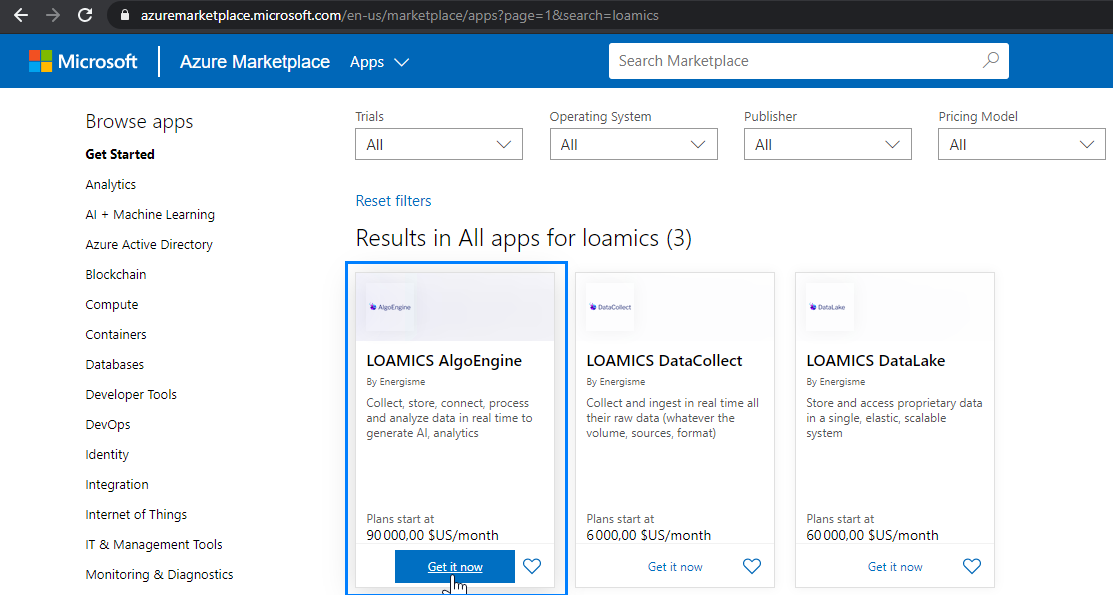
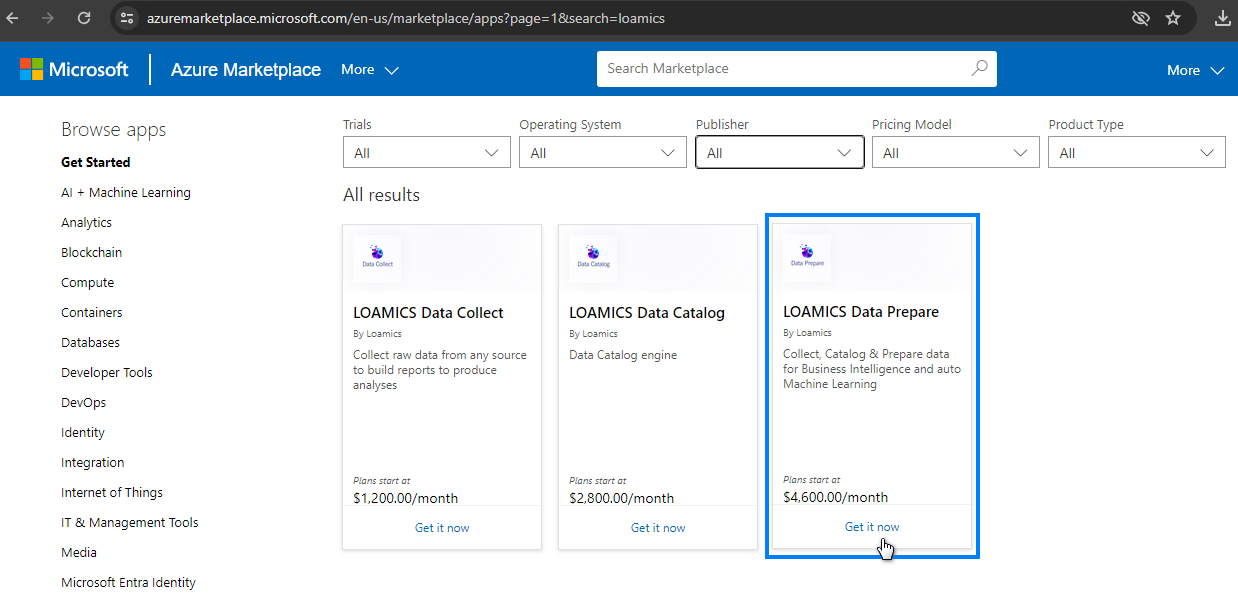
Update technical docs

diff --git a/gitbook/user_manual/ii_pages.md b/gitbook/user_manual/ii_pages.md
@@ -1,94 +1,63 @@
 ## II. Steps
 
-### 1. One SSH Public key
+###### Version 2.4.0
 
-This step creates a new SSH key pair.
+### 1. Basics
 
-Purpose: After deployment successfully finished, you can use this private key to SSH into VMs.
+Region `West Europe or France Central` are recommended:  
+![basics](imgs/basics_tab.png "")  
 
-Note: If you want to use an already exist key pair, you can skip this step. 
+### 2. Loamics Settings
 
-Open CMD on windows (Window button + R → “cmd”):
+![params](imgs/main_screen.png "") 
 
-This document using OpenSSH to generate key pairs (you can use any tool as you like)
+**General**:
 
-①. Run command: ssh-keygen
+- `Client name`: This is your company/organization in short. The value must be a string of 04-10 lower-case alphanumeric characters. It should not include some worlds that reserved by Microsoft (https://docs.microsoft.com/en-us/azure/azure-resource-manager/templates/error-reserved-resource-name)
 
-②. Enter file name
+- `White IP addresses`: The list of 1~15 IP addresses allowed to access the product. They must be separated by commas. You can see what is your Ip by browsing this site: https://www.myip.com/
 
-③. Enter your passphrase or skip it by Enter
+- `Activation key`: The product activation key. It is a string of maximum 40 alphanumeric characters. If you have no activation key, please leave this field blank.
 
-![ssh_1](imgs/ssh_1.png "")
+**Administrator's Contact**:
 
-Key pair will be created in your folder
+- `Contact name`: The administrator name. Please input your name who is getting this product.
 
-![ssh_2](imgs/ssh_2.png "")
+- `Email`: The administrator's email address. This email address to receive password of DataCollect and system notifications in the future.
 
-Open ssh-key.pub file
+**Loamics Components**: 
 
-![ssh_3](imgs/ssh_3.png "")
+- This section is mandatory. No need to unselect them.
 
-### 2. SFTP public key
+**Add-Ons**:
 
-This step creates a new SSH key pair.
+- You can select to install optional add-ons if you want.
 
-Purpose: After deployment successfully finished, you can use the private key to access into SFTP module.
+  Currently, Loamics (version 2.4.0) is providing these addons:  
+  ![params](imgs/loamics_addons_screen.png "") 
 
-Note: If you want to use an already exist key pair, you can skip this step.
+  + [IoT Hub - Connect, monitor, and manage billions of IoT assets](https://azure.microsoft.com/en-us/products/iot-hub/).  
+  + [Warp 10 - The Most Advanced Time Series Platform](https://www.warp10.io/).  
+  + [Azure Digital Twins - Use IoT spatial intelligence to create models of physical environments](https://azure.microsoft.com/en-us/products/digital-twins/).  
+  + [Elasticsearch - The distributed, RESTful search and analytics engine](https://www.elastic.co/elasticsearch/).  
 
-Open CMD on windows:
+### 4. Options
 
-①. Run command: ssh-keygen
+![options](imgs/options_tab.png "")  
 
-②. Enter file name
+- `Do you have an e-mail server?`: The Loamics Data Platform will use its e-mail system to send you notifications. Please select this option if you want to use your own e-mail system instead.
 
-③. Enter your passphrase or skip it by Enter
+- `Alert Email`: The custom email will receive alerts/notifications. By default, the alerts/notifications will be sent to the administrator's email.
 
-![ssh_4](imgs/ssh_4.png "")
+- `Alert Teams Webhook`: The Incoming Webhook URL of MS Teams Channel that will receive alerts/notifications.
 
-Key pair will be created in your folder
+- `Logs Retention Days`: How many days the service logs should be retained? Default: 5. 
 
-![ssh_5](imgs/ssh_5.png "")
+- `Do you have a Service Principal in your Azure AD that is reserved to be used in the Loamics Data Platform?`: To use some features such as Cloudera Hue's ADLS Gen2 connector, please create a new app registration, then input its Client ID and Client Secret here.
 
-Open sftp-key.pub file
+### 5. Review and create
 
-![ssh_6](imgs/ssh_6.png "")
-
-### 3. List your Whitelist IP addresses
-
-Only IPs from this Whitelist can access to your resources.
-
-You can check from [www.whatismyip.com](https://www.whatismyip.com/).
-
-If you want to input more than one IP, separated them by comma - not include space, Ex: 11.11.11.11,22.22.22.22,33.33.33.33
-
-![ip_1](imgs/ip_1.png "")
-
-### 4. Environment
-
-This is environment name in short for all resources, something like “prod” (for production) or “test” (for testing) or “dev” (for develop), etc...
-
-**Constraints**: Lowercase letters and numbers only, length in range [3-7] letters.
-
-### 5. Client name
-
-This is your company/organization in short.
-
-The client name combines with environment make your resources unique among subscriptions. This field should not include some word that reserved by Microsoft (refer document link: https://docs.microsoft.com/en-us/azure/azure-resource-manager/templates/error-reserved-resource-name) (ex: ~~login|microsoft|windows|xbox~~,..etc)
-
-**Constraints**: Lowercase letters and numbers only, length in range [3-10] letters.
-
-### 6. Optional Connectors
-
-You can decide to deploy Warp 10 or not.  
-In case you decide to include Warp 10: Select Warp 10 in the check box.   
-In case you decide to exclude Warp 10: Unselect Warp 10 in the check box.   
-![warp10_param](imgs/warp10_param.png "")
-
-### 7. Activation Key
-
-In case you don’t have it before, please leave it blank.  
-
-**Constraints**: Letters and numbers only, length [19] letters.  
+Check to agree terms and conditions -> `Create`:  
+![review](imgs/review_create_screen.png "")  
 
 ---

diff --git a/gitbook/SUMMARY.md b/gitbook/SUMMARY.md
@@ -1,7 +1,7 @@
 # Summary
 
 * [User Manual](README.md)
-	* [I. About this document](user_manual/i_pages.md)
+	* [I. Prerequisites](user_manual/i_pages.md)
 	* [II. Steps](user_manual/ii_pages.md)
 	* [III. Verify](user_manual/iii_pages.md)
 
@@ -56,6 +56,10 @@
 		* [DataCollect](deployment/ii_s1_pages.md)
 		* [DataLake](deployment/ii_s2_pages.md)
 		* [DataConnect](deployment/ii_s3_pages.md)
+	* [III. New Infrastructure Deployment](deployment/iii_pages.md)
+		* [DataCollect](deployment/iii_s1_pages.md)
+		* [DataCatalog](deployment/iii_s2_pages.md)
+		* [DataPrepare](deployment/iii_s3_pages.md)
 
 ---
 

diff --git a/gitbook/user_manual/i_pages.md b/gitbook/user_manual/i_pages.md
@@ -1,12 +1,10 @@
 # User Manual for Data Platform
 
-###### Version 1.1.3.0
+###### Version 2.4.0
 
-## I. About this document
+## I. Prerequisites
 
-This document explains about below parameters screen when deploying:  
-![basics](imgs/basics_tab.png "")  
+Subscription Quotas should be enough, number of vCPU from 20 to 50 (at least) are recommended:  
 ![subscription_quotas](imgs/subscription_quotas.png "")  
-![main_screen](imgs/main_screen.png "")
 
 ---

diff --git a/gitbook/README.md b/gitbook/README.md
@@ -1,10 +1,10 @@
 # User Manual for Data Platform
 
-###### Version 2.0
+###### Version 2.4.0
 
 ![main_screen](user_manual/imgs/offers_logo.png "")
 
-![pda_offer_logo](user_manual/imgs/loamics_logo_apps.png "")
+![pda_offer_logo](user_manual/imgs/collect-catalog-prepare-v2.png "")
 
 ## I. About this document
 This document has the aim of explaining how users can deploy and integrate the Loamics offer from the Azure Market Place onto their tenant. 

diff --git a/gitbook/deployment/iii_pages.md b/gitbook/deployment/iii_pages.md
@@ -4,8 +4,4 @@
 
 ![loamics_logo](imgs/collect-catalog-prepare-v2.png "")
 
-## I. About this document
-
-This page explains what component included in Loamics products.
-
 ---

diff --git a/gitbook/deployment/iii_s1_pages.md b/gitbook/deployment/iii_s1_pages.md
@@ -1,0 +1,9 @@
+# Deployment Models
+
+###### Version 2.4.0
+
+### DataCollect
+
+![datacollect](imgs/loamics_v2.4.0_datacollect.png "")
+
+---

diff --git a/gitbook/deployment/iii_s2_pages.md b/gitbook/deployment/iii_s2_pages.md
@@ -1,0 +1,9 @@
+# Deployment Models
+
+###### Version 2.4.0
+
+### DataCatalog
+
+![datacollect](imgs/loamics_v2.4.0_datacatalog.png "")
+
+---

diff --git a/gitbook/deployment/iii_s3_pages.md b/gitbook/deployment/iii_s3_pages.md
@@ -1,0 +1,9 @@
+# Deployment Models
+
+###### Version 2.4.0
+
+### DataPrepare
+
+![datacollect](imgs/loamics_v2.4.0.png "")
+
+---
